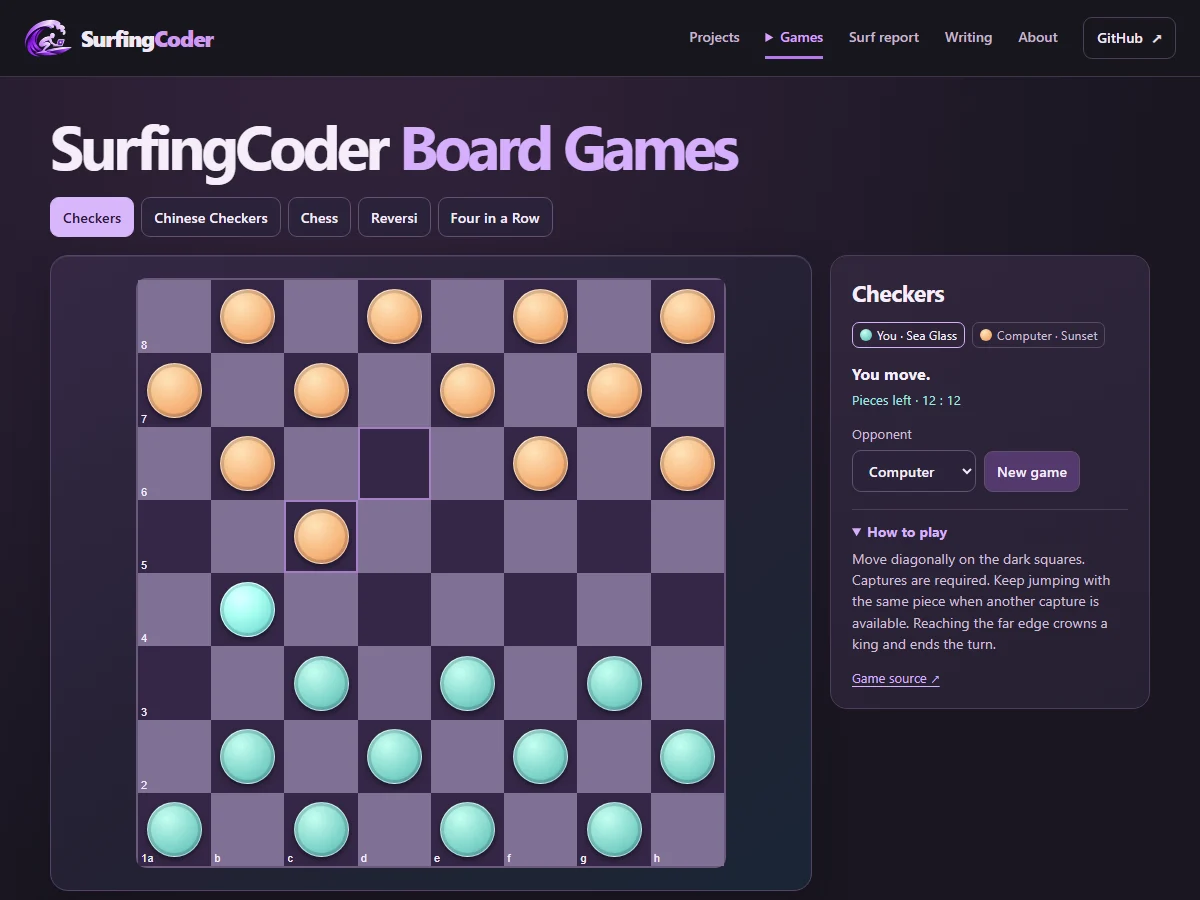
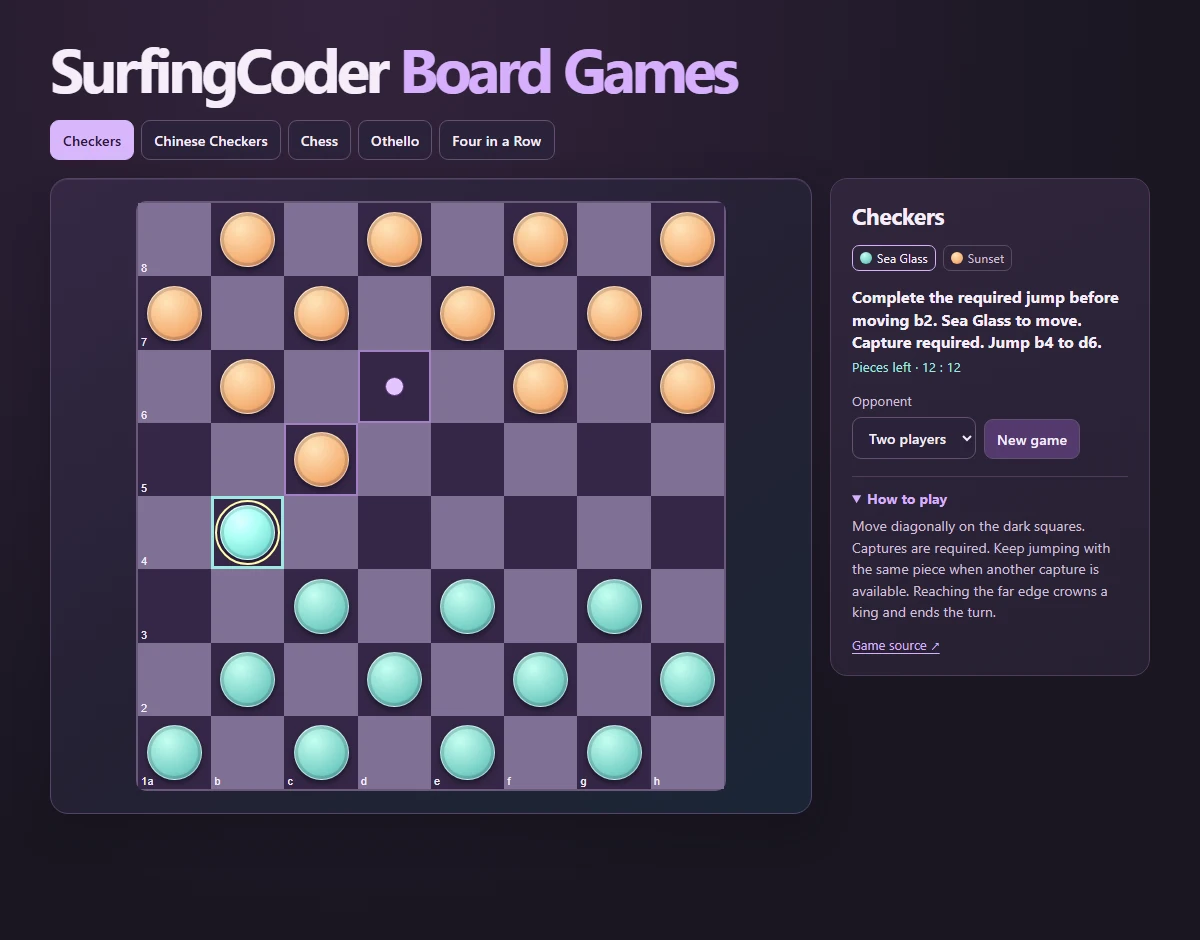
Explain and highlight required checkers captures

diff --git a/game.js b/game.js
@@ -26,6 +26,8 @@ const games = {
 }
 const sessions = new Map()
 let active, selected = null, last = [], legal = [], timer, ticket = 0, awaitingPromotion
+let moveNotice = ''
+const checkersCoordinate = id => 'abcdefgh'[id % 8] + (8 - Math.floor(id / 8))
 
 function cancelTurn() {
   clearTimeout(timer)
@@ -49,6 +51,7 @@ function gameId() {
 }
 function reset(opponent) {
   cancelTurn()
+  moveNotice = ''
   sessions.set(active,{state:games[active].create(),opponent,last:[]})
   selected = null
   last = []
@@ -58,6 +61,7 @@ function selectGame() {
   const next = gameId()
   if (next === active) return
   cancelTurn()
+  moveNotice = ''
   active = next
   if (!sessions.has(active)) sessions.set(active,{state:games[active].create(),opponent:'computer',last:[]})
   selected = session().state.forced ?? null
@@ -72,6 +76,7 @@ function selectGame() {
 }
 
 function apply(move, focus = move?.to) {
+  moveNotice = ''
   const current = session(), rules = games[active]
   current.state = rules.play(current.state,move)
   current.last = last = move?.path ?? [move?.from,move?.to].filter(id => id !== undefined)
@@ -102,7 +107,8 @@ function cellLabel(id, piece, state, cols, rows) {
   }
   const choice = !state.result && !isComputer() && legal.some(move =>
     active === 'four-in-a-row' ? move.col === id % cols : move.to === id && move.from === (selected ?? undefined))
-  return coordinate+', '+occupant+(choice ? ', legal destination' : '')
+  const required = active === 'checkers' && !isComputer() && legal.some(move => move.from === id && move.capture !== undefined)
+  return coordinate+', '+occupant+(choice ? ', legal destination' : '')+(required ? ', required capture piece' : '')
 }
 
 function addStar() {
@@ -147,6 +153,7 @@ function decorateCell(button,id,piece,state,cols,rows) {
     }
   }
   if (from && !isComputer()) classes.push('origin')
+  if (active === 'checkers' && !isComputer() && legal.some(move => move.from === id && move.capture !== undefined)) classes.push('capture-origin')
   if (to && !isComputer()) classes.push('destination')
   if (selected === id) classes.push('selected')
   if (last.includes(id)) classes.push('last')
@@ -171,6 +178,9 @@ function render(focus) {
   legal = games[active].moves(state)
   const computer = isComputer()
   const result = state.result
+  const captureRequired = active === 'checkers' && legal.some(move => move.capture !== undefined)
+  const captureOrigins = captureRequired ? [...new Set(legal.map(move => move.from))] : []
+  if (captureRequired && !computer && captureOrigins.length === 1) selected = captureOrigins[0]
   const cols = active === 'four-in-a-row' ? 7 : 8
   const rows = active === 'four-in-a-row' ? 6 : 8
   const pieces = active === 'chess' ? state.engine.board().flat() : state.board
@@ -200,9 +210,16 @@ function render(focus) {
   if (result) status = (result.winner === 0 ? 'Draw.' : name(result.winner)+(name(result.winner)==='You' ? ' win.' : ' wins.'))+' '+result.reason
   else if (active === 'chess' && state.engine.isCheck()) status += ' Check.'
   else if (state.forced != null) status += ' Continue the jump.'
+  else if (captureRequired) status += ' Capture required.'
   else if (state.pass != null) status = name(state.pass)+' passes. '+status
   else if (!legal.length && active === 'chinese-checkers') status = name(state.turn)+' passes.'
-  get('status').textContent = status
+  if (captureRequired && !computer) {
+    const destinations = legal.filter(move => move.from === selected).map(move => checkersCoordinate(move.to))
+    status += destinations.length
+      ? ' Jump '+checkersCoordinate(selected)+' to '+destinations.join(' or ')+'.'
+      : ' Choose a gold-ringed piece to jump.'
+  }
+  get('status').textContent = (moveNotice ? moveNotice+' ' : '')+status
 
   let counts = ''
   if (active === 'chinese-checkers') {
@@ -230,7 +247,29 @@ board.addEventListener('click', event => {
     return
   }
   if (cellMoves.length) return apply(cellMoves[0])
+  if (active === 'checkers') {
+    const state = session().state
+    const movable = legal.some(move => move.from === id)
+    if (state.forced != null) {
+      moveNotice = 'Keep jumping with '+checkersCoordinate(state.forced)+'.'
+      render(id)
+      return
+    }
+    if (Math.sign(state.board[id]) === state.turn && !movable) {
+      moveNotice = legal.some(move => move.capture !== undefined)
+        ? 'Complete the required jump before moving '+checkersCoordinate(id)+'.'
+        : checkersCoordinate(id)+' is blocked. Select a highlighted piece.'
+      render(id)
+      return
+    }
+    if (selected !== null && !movable && !state.board[id]) {
+      moveNotice = 'Choose a marked landing square for '+checkersCoordinate(selected)+'.'
+      render(id)
+      return
+    }
+  }
   if (session().state.forced !== null && session().state.forced !== undefined) return
+  moveNotice = ''
   selected = legal.some(move => move.from === id) && selected !== id ? id : null
   render(id)
 })

diff --git a/rules.test.js b/rules.test.js
@@ -6,6 +6,21 @@ import {createChess,chessMoves,playChess,chooseChess} from './chess-game.js'
 import {createReversi,reversiMoves,playReversi} from './reversi.js'
 import {createFour,fourMoves,playFour,chooseFour} from './four.js'
 
+test('the reported b2 position requires b4 to jump c5 and land on d6', () => {
+  let state = createCheckers()
+  for (const [from, to] of [[40, 33], [19, 26]]) {
+    state = playCheckers(state, checkersMoves(state).find(move => move.from === from && move.to === to))
+  }
+  assert.equal(state.board[49], 1)
+  assert.equal(state.board[40], 0)
+  assert.deepEqual(checkersMoves(state), [{from:33, to:19, capture:26}])
+  state = playCheckers(state, checkersMoves(state)[0])
+  assert.equal(state.board[33], 0)
+  assert.equal(state.board[26], 0)
+  assert.equal(state.board[19], 1)
+  assert.equal(state.turn, -1)
+})
+
 test('checkers forces a chain and crowns without granting an extra jump', () => {
   let state = createCheckers()
   state.board.fill(0)

diff --git a/index.html b/index.html
@@ -5,8 +5,8 @@
   <meta name="viewport" content="width=device-width, initial-scale=1">
   <meta name="description" content="Play Checkers, Chinese Checkers, Chess, Othello and Four in a Row against the computer or a friend.">
   <title>SurfingCoder Board Games</title>
-  <link rel="stylesheet" href="./style.css?v=othello">
-  <script type="module" src="./game.js?v=othello"></script>
+  <link rel="stylesheet" href="./style.css?v=20261118-checkers-capture">
+  <script type="module" src="./game.js?v=20261118-checkers-capture"></script>
 </head>
 <body>
   <a class="skip-link" href="#games">Skip to the games</a>

diff --git a/style.css b/style.css
@@ -90,6 +90,7 @@ button, select, summary { cursor: pointer; }
 }
 .cell.destination:has(.token)::after { width: 86%; background: transparent; border: 2px solid #e5c4ff; }
 .cell.origin .token { filter: brightness(1.12); }
+.checkers .cell.capture-origin .token { outline: 2px solid #ffe39a; outline-offset: 3px; }
 .cell.winning { outline: 2px solid var(--sea); outline-offset: -3px; }
 .token {
   position: relative; width: 75%; aspect-ratio: 1; display: grid; place-items: center;

diff --git a/README.md b/README.md
@@ -6,6 +6,8 @@ Play [SurfingCoder Board Games](https://surfingcoder.com/board-games/) in your b
 
 Pick a game, then choose **Computer** or **Two players**. In two-player mode, take turns on the same device. Use **New game** to reset the selected board. The game picker keeps each board in memory while the page is open. Use the arrow keys to move between squares and press Enter or Space to select.
 
+In Checkers, a gold ring marks each piece with a required capture. When a single piece can capture, its legal landing squares appear automatically. The status names the required jump and explains blocked selections. A jump available elsewhere on the board takes priority over moving another piece.
+
 | Game | How to win |
 | --- | --- |
 | Checkers | Capture every opposing piece or leave the opponent without a move. Captures and chains are compulsory. Promotion ends your turn. This version automatically draws after three repetitions or 80 half-moves without a capture or man move. |
